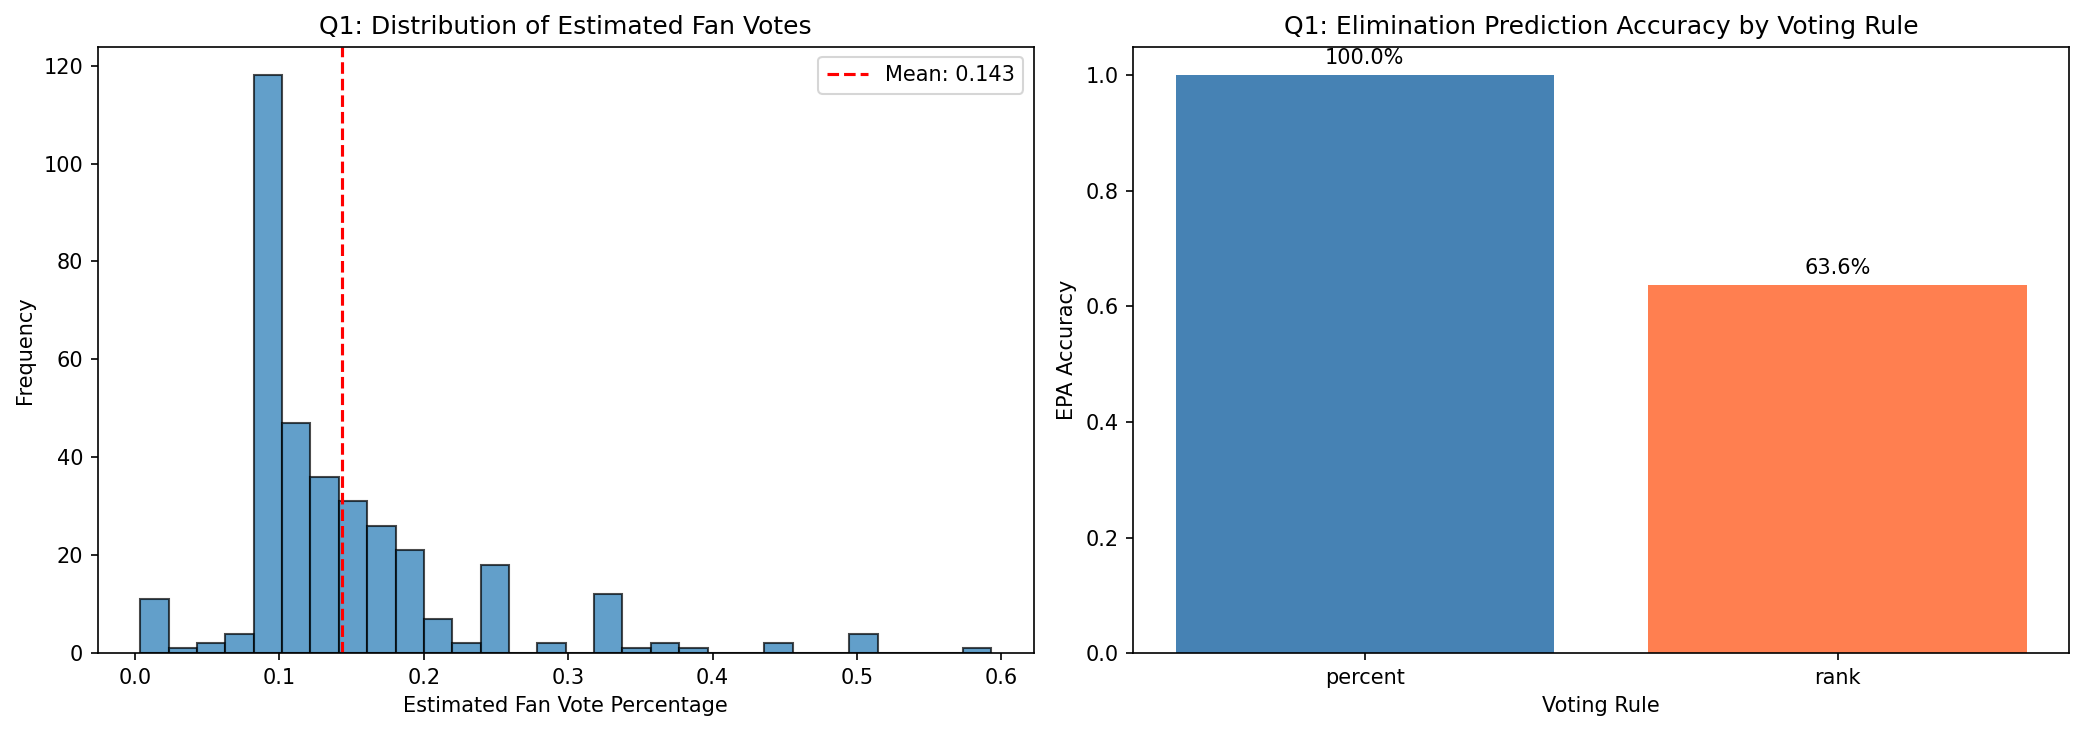
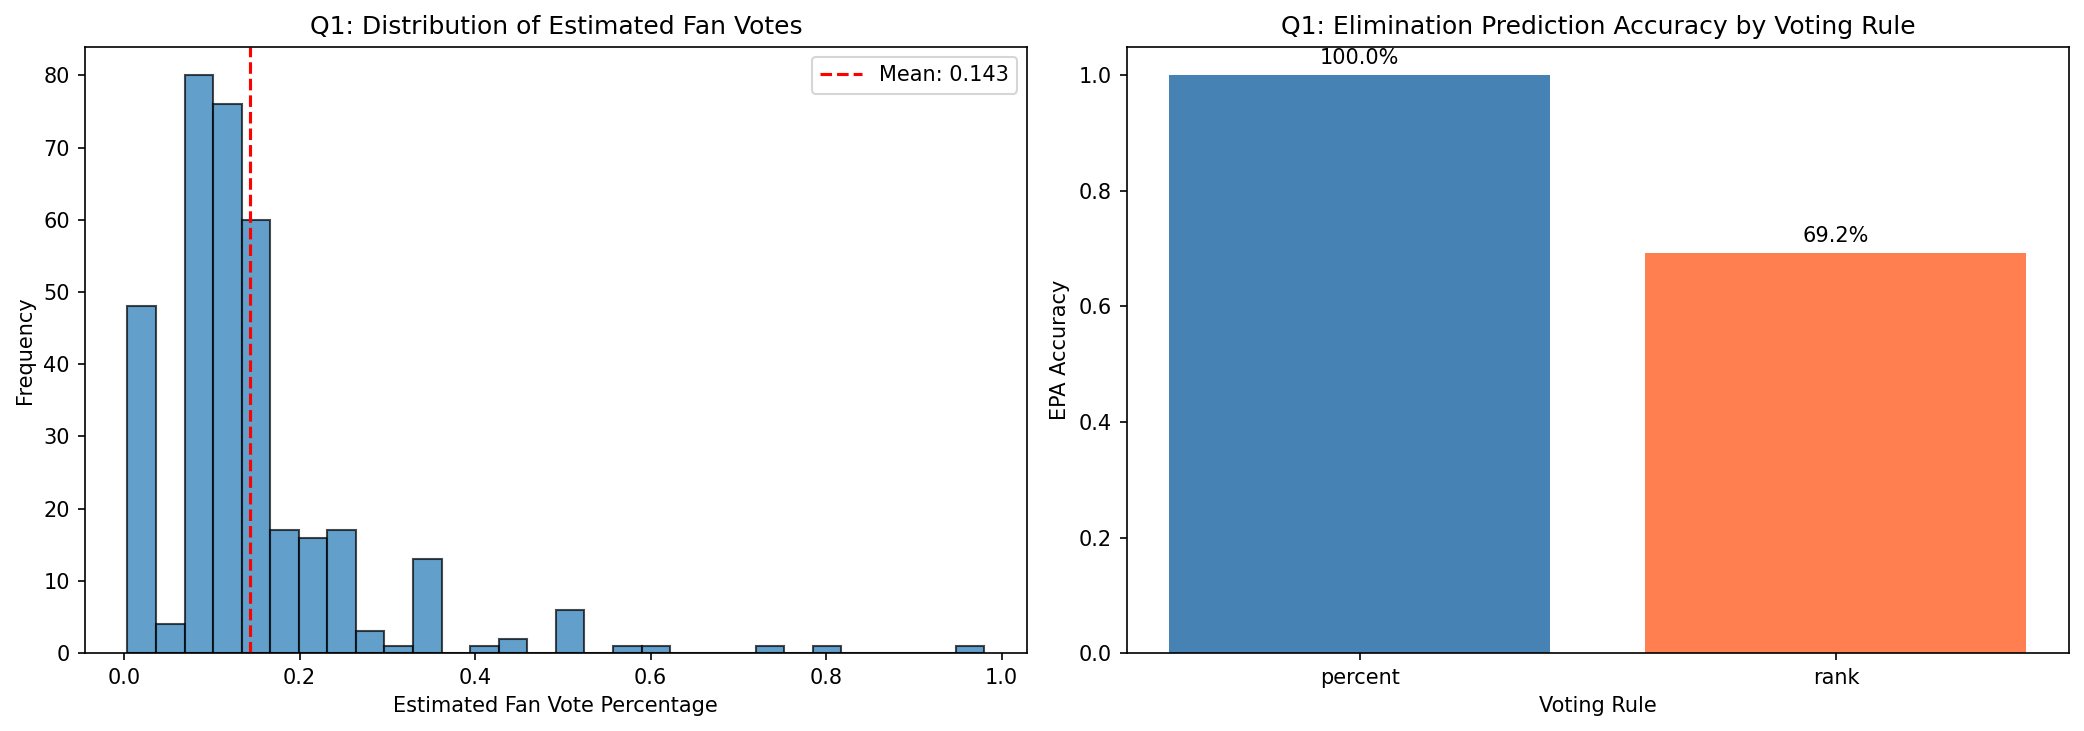
Fix final week elimination and improve fan vote model objective function

diff --git a/model_solving_v2.py b/model_solving_v2.py
@@ -43,21 +43,21 @@ warnings.filterwarnings('ignore')
 class Config:
     """全局配置"""
     # 数据路径
-    DATA_DIR = "C:/Users/ultraman/Desktop/文件夹/shumo/code/preprocessing_output"
+    DATA_DIR = "preprocessing_output"
     MODELS_DIR = os.path.join(DATA_DIR, "models")
     DATA_SUBDIR = os.path.join(DATA_DIR, "data")
-    OUTPUT_DIR = "C:/Users/ultraman/Desktop/文件夹/shumo/code/solving_output_v4"
+    OUTPUT_DIR = "solving_output_v2"
     
     # 随机种子
     RANDOM_SEED = 42
     
     # 问题一参数
     Q1_LAMBDA_REG = 0.1  # 正则化系数（熵正则化权重）
-    Q1_MAX_ITER = 500    # SLSQP最大迭代次数（进一步减少）
-    Q1_MCMC_SAMPLES = 5000   # MCMC采样数
-    Q1_BURNIN = 1000      # MCMC预热期
-    Q1_BOOTSTRAP_N = 500   # Bootstrap次数
-    Q1_BOOTSTRAP_WEEKS = 10  # Bootstrap评估的周数（恢复到10）
+    Q1_MAX_ITER = 100    # SLSQP最大迭代次数
+    Q1_MCMC_SAMPLES = 500   # MCMC采样数
+    Q1_BURNIN = 100      # MCMC预热期
+    Q1_BOOTSTRAP_N = 30   # Bootstrap次数
+    Q1_BOOTSTRAP_WEEKS = 10  # Bootstrap评估的周数
     
     # 问题二参数
     Q2_BOOTSTRAP_N = 1000
@@ -183,29 +183,60 @@ class Q1FanVoteEstimator:
         """
         求解单周优化问题
         
-        修复：添加快速失败检测和智能初始值，避免Bootstrap卡住
+        修复v2.1：改进目标函数，产生更有区分度的粉丝投票估计
+        - 原问题：目标函数min(v-uniform)²导致解趋向均匀分布
+        - 新方案：使用基于评委分数的先验，鼓励与评委评分有差异的解
         """
         n = week_data['n_contestants']
         judge_pct = np.array(week_data['judge_pct'])
         judge_ranks = np.array(week_data['judge_ranks'])
+        judge_scores = np.array(week_data.get('judge_scores', judge_pct * 30))
         eliminated_idx = week_data['eliminated_idx']
         voting_rule = week_data['voting_rule']
         
-        # 智能初始值：如果有淘汰者，初始化粉丝投票使其排名靠后
+        # 智能初始值：基于评委排名的逆序（假设粉丝投票与评委有差异）
         if eliminated_idx is not None and n > 2:
-            v0 = np.ones(n) / n
-            # 降低被淘汰者的初始投票，使其更容易被淘汰
-            v0[eliminated_idx] = 0.02
-            # 重新归一化
+            # 被淘汰者获得低票，其他人根据评委排名分配
+            v0 = np.ones(n)
+            max_rank = np.max(judge_ranks)
+            for i in range(n):
+                if i == eliminated_idx:
+                    v0[i] = 0.02
+                else:
+                    # 评委排名越低（数字越大），假设粉丝投票越高（体现"黑马"效应）
+                    v0[i] = (judge_ranks[i] / max_rank) * 0.8 + 0.2
             v0 = v0 / np.sum(v0)
         else:
-            v0 = np.ones(n) / n
+            # 无淘汰时，使用基于评委分数逆序的先验
+            v0 = np.ones(n)
+            max_score = np.max(judge_scores) if np.max(judge_scores) > 0 else 1
+            for i in range(n):
+                # 假设粉丝投票与技术水平有一定负相关（"同情票"效应）
+                v0[i] = (1 - judge_scores[i] / max_score / 2) + 0.5
+            v0 = v0 / np.sum(v0)
         
         def objective(v):
-            uniform = np.ones(n) / n
-            deviation = np.sum((v - uniform)**2)
+            """
+            新目标函数：
+            1. 最大化熵（鼓励分散分布，而非均匀）
+            2. 与评委分数有适度差异（体现粉丝投票的独立性）
+            3. 被淘汰者应获得较少票
+            """
+            # 熵正则化（最大化熵，鼓励分散但不必均匀）
             entropy = -np.sum(v * np.log(v + 1e-10))
-            return deviation - Config.Q1_LAMBDA_REG * entropy
+            
+            # 与评委分数的差异性（鼓励粉丝投票有自己的模式）
+            judge_normalized = judge_pct / np.sum(judge_pct) if np.sum(judge_pct) > 0 else np.ones(n) / n
+            difference = np.sum((v - judge_normalized)**2)
+            
+            # 如果有淘汰者，惩罚给淘汰者高票
+            eliminated_penalty = 0
+            if eliminated_idx is not None:
+                eliminated_penalty = v[eliminated_idx] * 5  # 惩罚给淘汰者高票
+            
+            # 总目标：最大化熵 + 适度差异 - 淘汰者惩罚
+            # 注意：minimize所以取负
+            return -entropy + 0.1 * difference + eliminated_penalty
         
         def constraint_sum(v):
             return np.sum(v) - 1.0

diff --git a/data_preprocessing.py b/data_preprocessing.py
@@ -343,6 +343,17 @@ class DWTSDataPreprocessor:
                                 eliminated_idx = i
                                 eliminated_name = row['celebrity_name']
                                 break
+                else:
+                    # 决赛周：最后一轮未拿冠军的相当于淘汰了
+                    # 找到placement不是1的选手作为"淘汰者"
+                    # 如果有多个非冠军，取placement最大（排名最差）的
+                    worst_placement = 0
+                    for i, (idx, row) in enumerate(active_df.iterrows()):
+                        placement = row.get('placement', 0)
+                        if placement > 1 and placement > worst_placement:
+                            worst_placement = placement
+                            eliminated_idx = i
+                            eliminated_name = row['celebrity_name']
                 
                 # 存储数据
                 week_data[(season, week)] = {

diff --git a/generate_visualizations.py b/generate_visualizations.py
@@ -18,7 +18,7 @@ import os
 
 # 输出目录
 OUTPUT_DIR = "visualization_output"
-DATA_DIR = "solving_output"
+DATA_DIR = "solving_output_v2"
 
 os.makedirs(OUTPUT_DIR, exist_ok=True)
 
